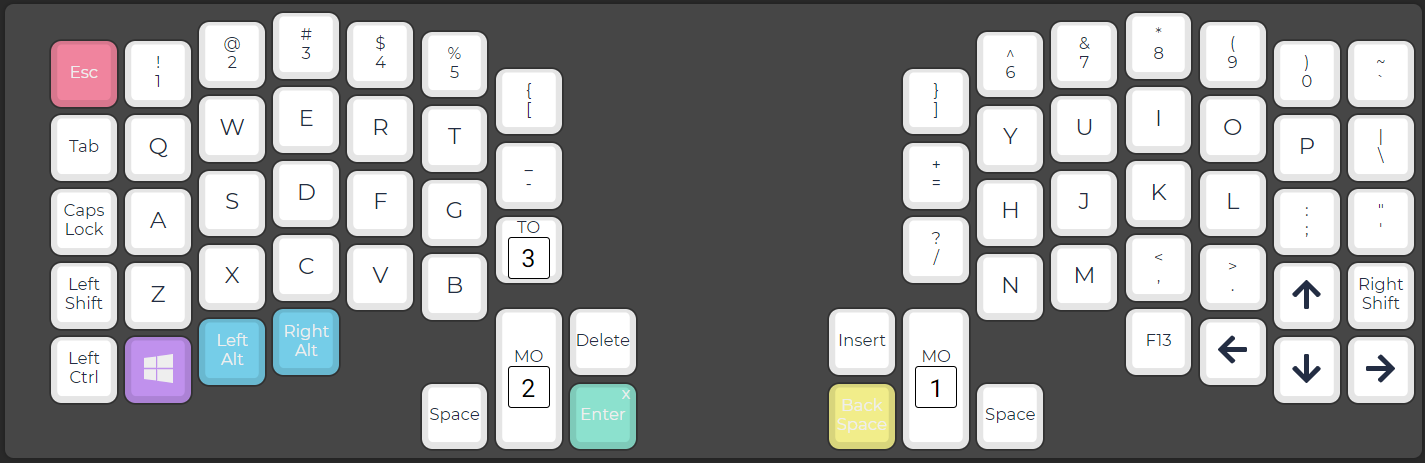
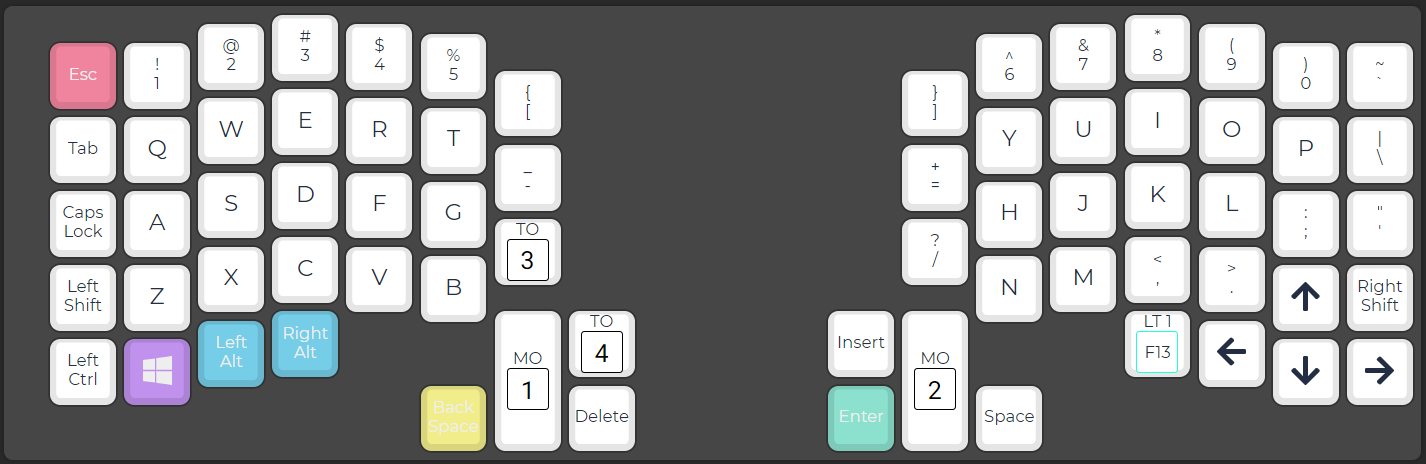
Update Layout

diff --git a/Ergodash/4 key 2u inner/keymap.c b/Ergodash/4 key 2u inner/keymap.c
@@ -17,14 +17,14 @@ enum custom_keycodes {
 
  const uint16_t PROGMEM keymaps[][MATRIX_ROWS][MATRIX_COLS] = {
 
- [_LAYER0] = LAYOUT(KC_ESC, KC_1, KC_2, KC_3, KC_4, KC_5, KC_LBRC, KC_RBRC, KC_6, KC_7, KC_8, KC_9, KC_0, KC_GRV, KC_TAB, KC_Q, KC_W, KC_E, KC_R, KC_T, KC_MINS, KC_EQL, KC_Y, KC_U, KC_I, KC_O, KC_P, KC_BSLS, KC_CAPS, KC_A, KC_S, KC_D, KC_F, KC_G, TO(3), KC_SLSH, KC_H, KC_J, KC_K, KC_L, KC_SCLN, KC_QUOT, KC_LSFT, KC_Z, KC_X, KC_C, KC_V, KC_B, KC_DEL, KC_INS, KC_N, KC_M, KC_COMM, KC_DOT, KC_UP, KC_RSFT, KC_LCTL, KC_LGUI, KC_LALT, KC_RALT, KC_SPC, MO(2), KC_ENT, KC_BSPC, MO(1), KC_SPC, KC_F13, KC_LEFT, KC_DOWN, KC_RGHT),
+ [_LAYER0] = LAYOUT(KC_ESC, KC_1, KC_2, KC_3, KC_4, KC_5, KC_LBRC, KC_RBRC, KC_6, KC_7, KC_8, KC_9, KC_0, KC_GRV, KC_TAB, KC_Q, KC_W, KC_E, KC_R, KC_T, KC_MINS, KC_EQL, KC_Y, KC_U, KC_I, KC_O, KC_P, KC_BSLS, KC_CAPS, KC_A, KC_S, KC_D, KC_F, KC_G, TO(3), KC_SLSH, KC_H, KC_J, KC_K, KC_L, KC_SCLN, KC_QUOT, KC_LSFT, KC_Z, KC_X, KC_C, KC_V, KC_B, TO(4), KC_INS, KC_N, KC_M, KC_COMM, KC_DOT, KC_UP, KC_RSFT, KC_LCTL, KC_LGUI, KC_LALT, KC_RALT, KC_BSPC, MO(1), KC_DEL, KC_ENT, MO(2), KC_SPC, LT(1,KC_F13), KC_LEFT, KC_DOWN, KC_RGHT),
 
-[_LAYER1] = LAYOUT(KC_F1, KC_F2, KC_F3, KC_F4, KC_F5, KC_F6, KC_LCBR, KC_RCBR, KC_F7, KC_F8, KC_F9, KC_F10, KC_F11, KC_F12, KC_TILD, KC_EXLM, KC_AT, KC_HASH, KC_DLR, KC_PERC, KC_UNDS, KC_PLUS, KC_CIRC, KC_AMPR, KC_ASTR, KC_LPRN, KC_RPRN, KC_PIPE, KC_NO, KC_NO, KC_LGUI, KC_LSFT, KC_S, KC_NO, TO(4), KC_QUES, KC_MUTE, KC_MPRV, KC_MPLY, KC_MNXT, KC_COLN, KC_DQUO, KC_NO, KC_NO, KC_NO, KC_I, KC_L, KC_NO, KC_DEL, KC_INS, KC_VOLD, KC_VOLU, KC_LT, KC_GT, KC_NO, KC_NO, KC_NO, KC_NO, KC_NO, KC_NO, KC_SPC, KC_TRNS, KC_ENT, KC_BSPC, KC_TRNS, KC_SPC, KC_HOME, KC_PGUP, KC_PGDN, KC_END),
+[_LAYER1] = LAYOUT(KC_F1, KC_F2, KC_F3, KC_F4, KC_F5, KC_F6, KC_LCBR, KC_RCBR, KC_F7, KC_F8, KC_F9, KC_F10, KC_F11, KC_F12, KC_TILD, KC_EXLM, KC_AT, KC_HASH, KC_DLR, KC_PERC, KC_UNDS, KC_PLUS, KC_CIRC, KC_AMPR, KC_ASTR, KC_LPRN, KC_RPRN, KC_PIPE, KC_NO, KC_NO, KC_LGUI, KC_LSFT, KC_S, KC_NO, KC_NO, KC_QUES, KC_MUTE, KC_MPRV, KC_MPLY, KC_MNXT, KC_COLN, KC_DQUO, KC_NO, KC_NO, KC_NO, KC_I, KC_L, KC_NO, KC_DEL, KC_INS, KC_VOLD, KC_VOLU, KC_LT, KC_GT, KC_NO, KC_NO, KC_NO, KC_NO, KC_NO, KC_NO, KC_SPC, KC_TRNS, KC_ENT, KC_BSPC, KC_TRNS, KC_SPC, KC_HOME, KC_PGUP, KC_PGDN, KC_END),
 
 [_LAYER2] = LAYOUT(KC_NO, KC_NO, KC_NO, KC_NO, KC_NO, KC_NO, KC_NO, KC_NO, KC_NO, KC_NO, KC_NO, KC_NO, KC_NO, KC_NO, KC_NO, KC_NO, KC_NO, KC_NO, KC_NO, KC_NO, KC_NO, KC_NO, KC_PLUS, KC_7, KC_8, KC_9, KC_ASTR, KC_NO, KC_NO, KC_NO, KC_NO, KC_NO, KC_NO, KC_NO, KC_NO, KC_NO, KC_MINS, KC_4, KC_5, KC_6, KC_SLSH, KC_NO, KC_NO, KC_NO, KC_NO, KC_NO, KC_NO, KC_NO, KC_DEL, KC_INS, KC_NO, KC_1, KC_2, KC_3, KC_NO, KC_NO, KC_NO, KC_NO, KC_NO, KC_NO, KC_SPC, KC_TRNS, KC_ENT, KC_BSPC, KC_TRNS, KC_SPC, KC_0, KC_DOT, KC_NO, KC_NO),
 
 [_LAYER3] = LAYOUT(KC_ESC, KC_MPRV, KC_MPLY, KC_MNXT, KC_VOLD, KC_VOLU, KC_NO, KC_NO, KC_NO, KC_NO, KC_NO, KC_NO, KC_NO, KC_NO, KC_GRV, KC_1, KC_2, KC_3, KC_4, KC_5, KC_NO, KC_NO, KC_NO, KC_NO, KC_NO, KC_NO, KC_NO, KC_NO, KC_TAB, KC_Q, KC_W, KC_E, KC_R, KC_T, TO(0), KC_NO, KC_NO, KC_NO, KC_NO, KC_NO, KC_NO, KC_NO, KC_LCTL, KC_A, KC_S, KC_D, KC_F, KC_G, KC_NO, KC_NO, KC_NO, KC_NO, KC_NO, KC_NO, KC_NO, KC_NO, KC_NO, KC_NO, KC_NO, KC_NO, KC_SPC, KC_B, KC_P, KC_NO, KC_NO, KC_NO, KC_NO, KC_NO, KC_NO, KC_NO),
 
-[_LAYER4] = LAYOUT(KC_NO, KC_ESC, KC_MPLY, KC_VOLD, KC_VOLU, KC_NO, KC_NO, KC_NO, KC_NO, KC_NO, KC_NO, KC_NO, KC_NO, KC_NO, KC_NO, KC_TAB, KC_Q, KC_W, KC_E, KC_R, KC_B, KC_NO, KC_NO, KC_NO, KC_NO, KC_NO, KC_NO, KC_NO, KC_M, KC_LSFT, KC_A, KC_S, KC_D, KC_F, TO(0), KC_NO, KC_NO, KC_NO, KC_NO, KC_NO, KC_NO, KC_NO, KC_U, KC_LCTL, KC_Z, KC_X, KC_C, KC_V, KC_T, KC_NO, KC_NO, KC_NO, KC_NO, KC_NO, KC_NO, KC_NO, KC_NO, KC_NO, KC_NO, KC_LALT, KC_SPC, KC_4, KC_G, KC_NO, KC_NO, KC_NO, KC_NO, KC_NO, KC_NO, KC_NO) 
+[_LAYER4] = LAYOUT(KC_NO, KC_ESC, KC_MPLY, KC_VOLD, KC_VOLU, KC_NO, KC_NO, KC_NO, KC_NO, KC_NO, KC_NO, KC_NO, KC_NO, KC_NO, KC_NO, KC_TAB, KC_Q, KC_W, KC_E, KC_R, KC_B, KC_NO, KC_NO, KC_NO, KC_NO, KC_NO, KC_NO, KC_NO, KC_M, KC_LSFT, KC_A, KC_S, KC_D, KC_F, TO(0), KC_NO, KC_NO, KC_NO, KC_NO, KC_NO, KC_NO, KC_NO, KC_U, KC_LCTL, KC_Z, KC_X, KC_C, KC_V, KC_TRNS, KC_NO, KC_NO, KC_NO, KC_NO, KC_NO, KC_NO, KC_NO, KC_NO, KC_NO, KC_NO, KC_LALT, KC_SPC, KC_4, KC_G, KC_NO, KC_NO, KC_NO, KC_NO, KC_NO, KC_NO, KC_NO) 
 
 };
